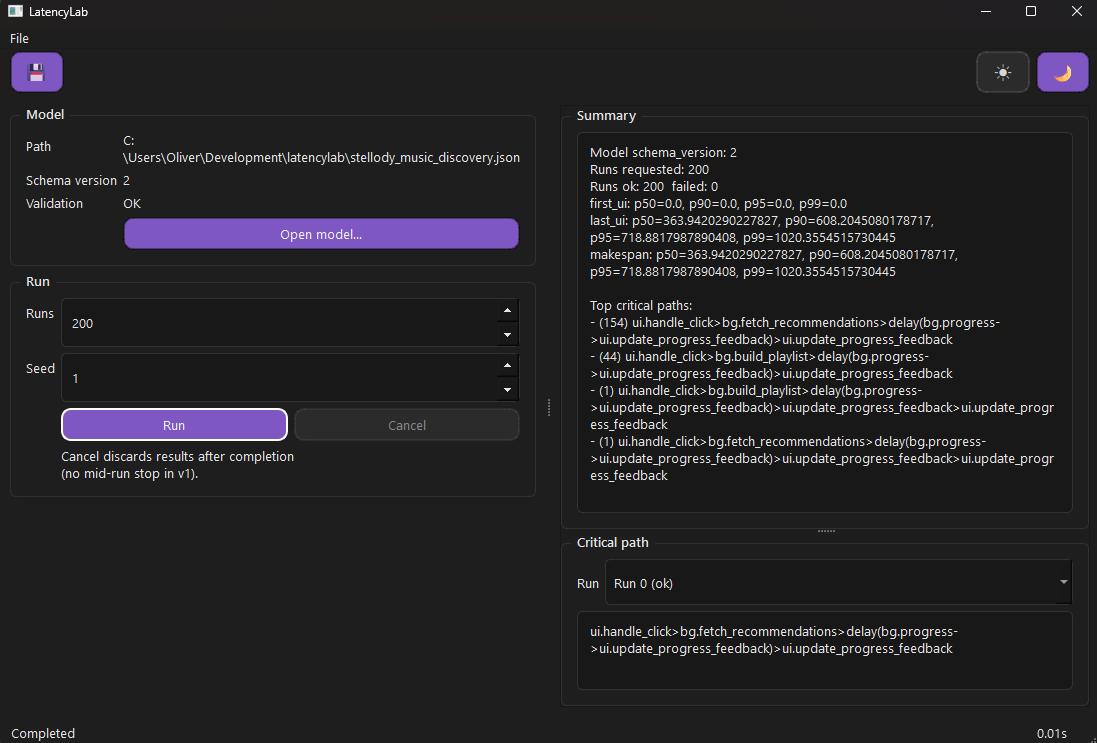
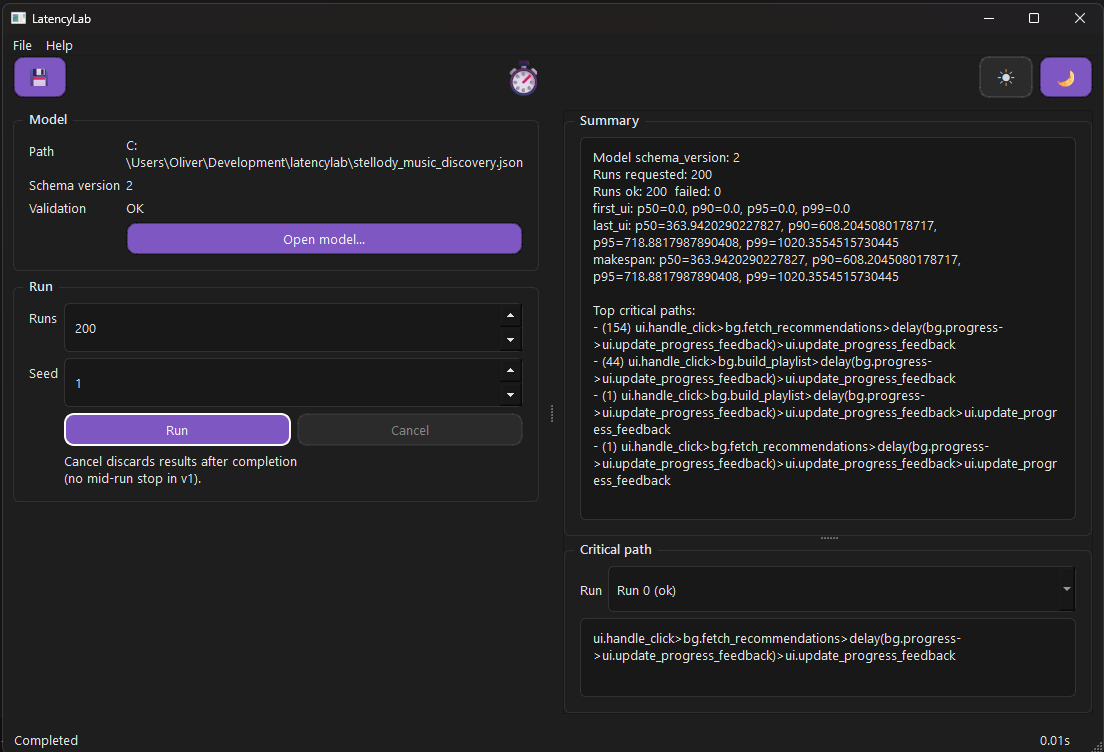
Update latencylab post.

diff --git a/posts/latencylab.md b/posts/latencylab.md
@@ -21,7 +21,7 @@ social_image: /static/images/latencylab.png
 Latency discussions are dominated by intuition, confidence and post-hoc profiling. By the time real systems can be measured, critical decisions about concurrency, feedback, sequencing and delay have already been made and are difficult to reason about without invasive instrumentation or significant rewrites. Profilers explain *what happened* in a running system but rarely clarify *why the user waited*.
 
 **Solution:**  
-LatencyLab provides a deterministic simulation engine for modelling latency at design time. Instead of attaching to running production code, it executes explicit models of tasks, events, queues, delays and resource contention using reproducible randomness and well-defined scheduling semantics. By running these models many times it produces concrete metrics such as critical paths, queue wait, UI timing and percentiles. This makes sources of delay visible and attributable.
+LatencyLab provides a deterministic simulation engine for modelling latency at design time. Instead of attaching to running production code, it executes explicit models of tasks, events, queues, delays and resource contention using reproducible randomness and well-defined scheduling semantics. By running these models many times, it produces concrete metrics such as critical paths, queue wait, UI timing and percentiles. This makes sources of delay visible and attributable.
 
 A lightweight client UI sits alongside the engine, allowing models to be executed, inspected and compared interactively without turning the tool into an IDE or dashboard framework.
 
@@ -124,6 +124,22 @@ From there the tool evolved in phases. A second execution path was introduced, s
 Model versions describe meaning. Application versions describe tooling. Those concerns do not drift silently into each other.
 
 *Git history is not an oracle. Executable tests are.*
+
+## When Results Stop Being Disposable
+
+As the UI matured, runs stopped being something you glanced at and threw away.
+
+Saving a single panel as a text file was no longer sufficient once runs needed to be compared, revisited and argued about. The UI now saves an entire suite of runs as a single zip file in a location of your choosing. Each run is stored as a `RunNNNN.txt` file containing a small, fixed header including the run id, status, makespan, critical path time and any failure reason, followed by the critical path task sequence. Nothing else is written. There are no auxiliary files to reconcile later.
+
+This changed how the tool was used. Results became artifacts rather than output. They could be inspected offline, diffed, archived or shared without requiring the UI to be present.
+
+## Progression
+
+As the UI took on more responsibility, it also had to be explicit about itself. Help and licence information are now surfaced directly in the interface rather than assumed or implied. The UI has an About view, a UI licence view and a main project licence view so there is no ambiguity about what you are running.
+
+Accessibility issues surfaced again as these features were added. Tab ordering and focus handling were revisited end to end so that the UI remained fully usable without a mouse. This was not polish work. It was a constraint, and it forced the structure of the interface to stay honest.
+
+The UI header now includes a single central emoji icon. It serves no functional purpose beyond signalling that this is a tool for thinking, not a dashboard optimised for reassurance.
 
 ## Determinism Is Not Optional
 
